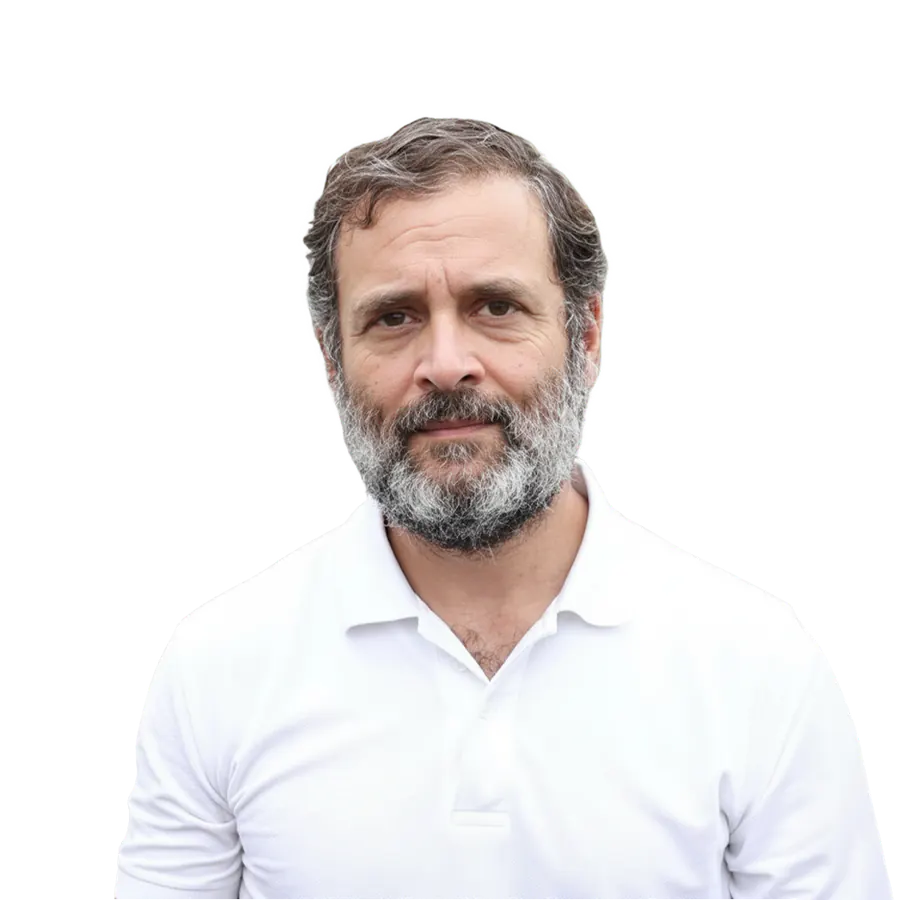
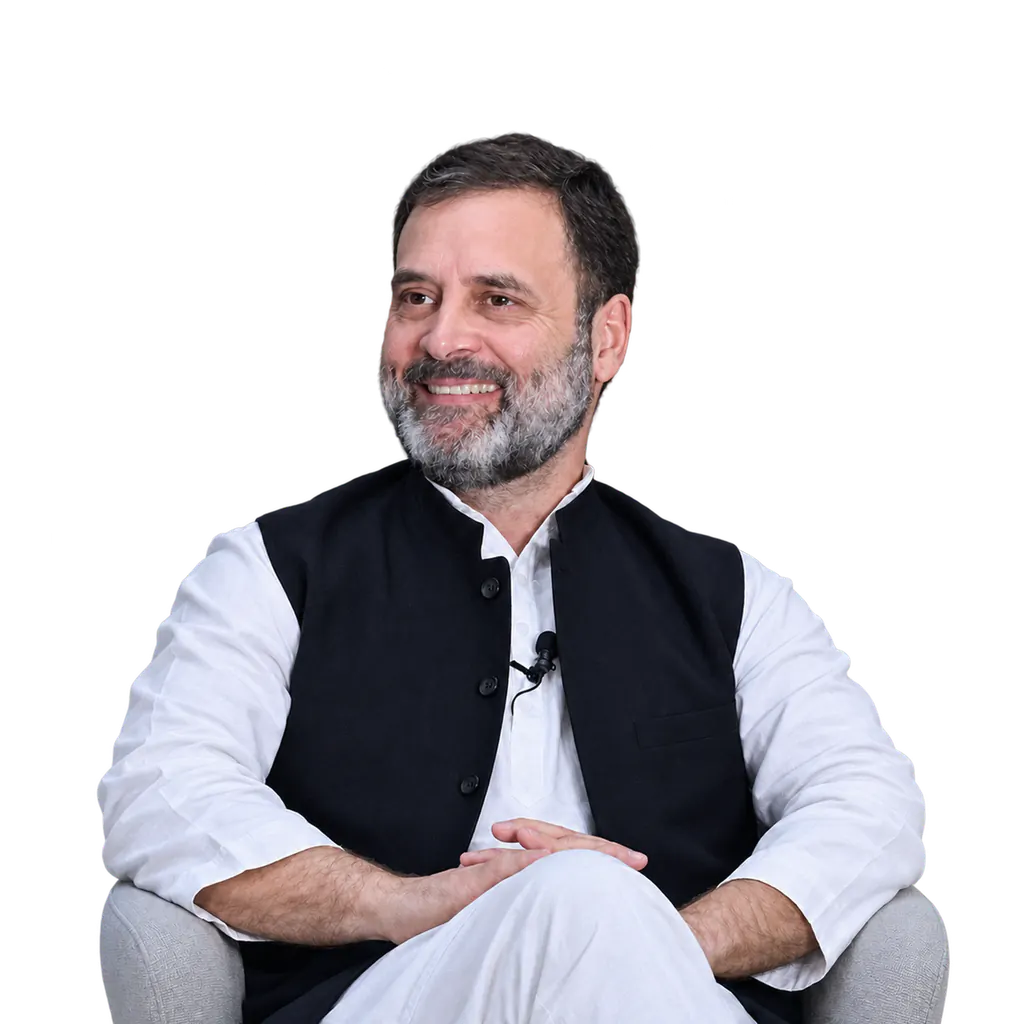
8 speaker images added to the speaker section

diff --git a/src/data/speakersData.js b/src/data/speakersData.js
@@ -432,8 +432,7 @@ const COUNTRY = {
 
 // No photo yet (initials instead)
 // Remove a name here once its photo is in public/assets/speakers/.
-const NO_PHOTO = new Set(['Monty All', 'Nurul Izzah Anwar', 'Christian Salm', 'Maria Iñiguez', 'Driss Lachgar', 'Naseer Hussain',
-  'Pascal Affi N’Guessan', 'Supra Mahumapelo'])
+const NO_PHOTO = new Set([])
 // "María José Pizarro" -> "maria-jose-pizarro", the photo's file name
 const slug = (name) => name.normalize('NFKD').replace(/[\u0300-\u036f]/g, '').toLowerCase().replace(/[^a-z0-9]+/g, '-').replace(/^-|-$/g, '')
 
